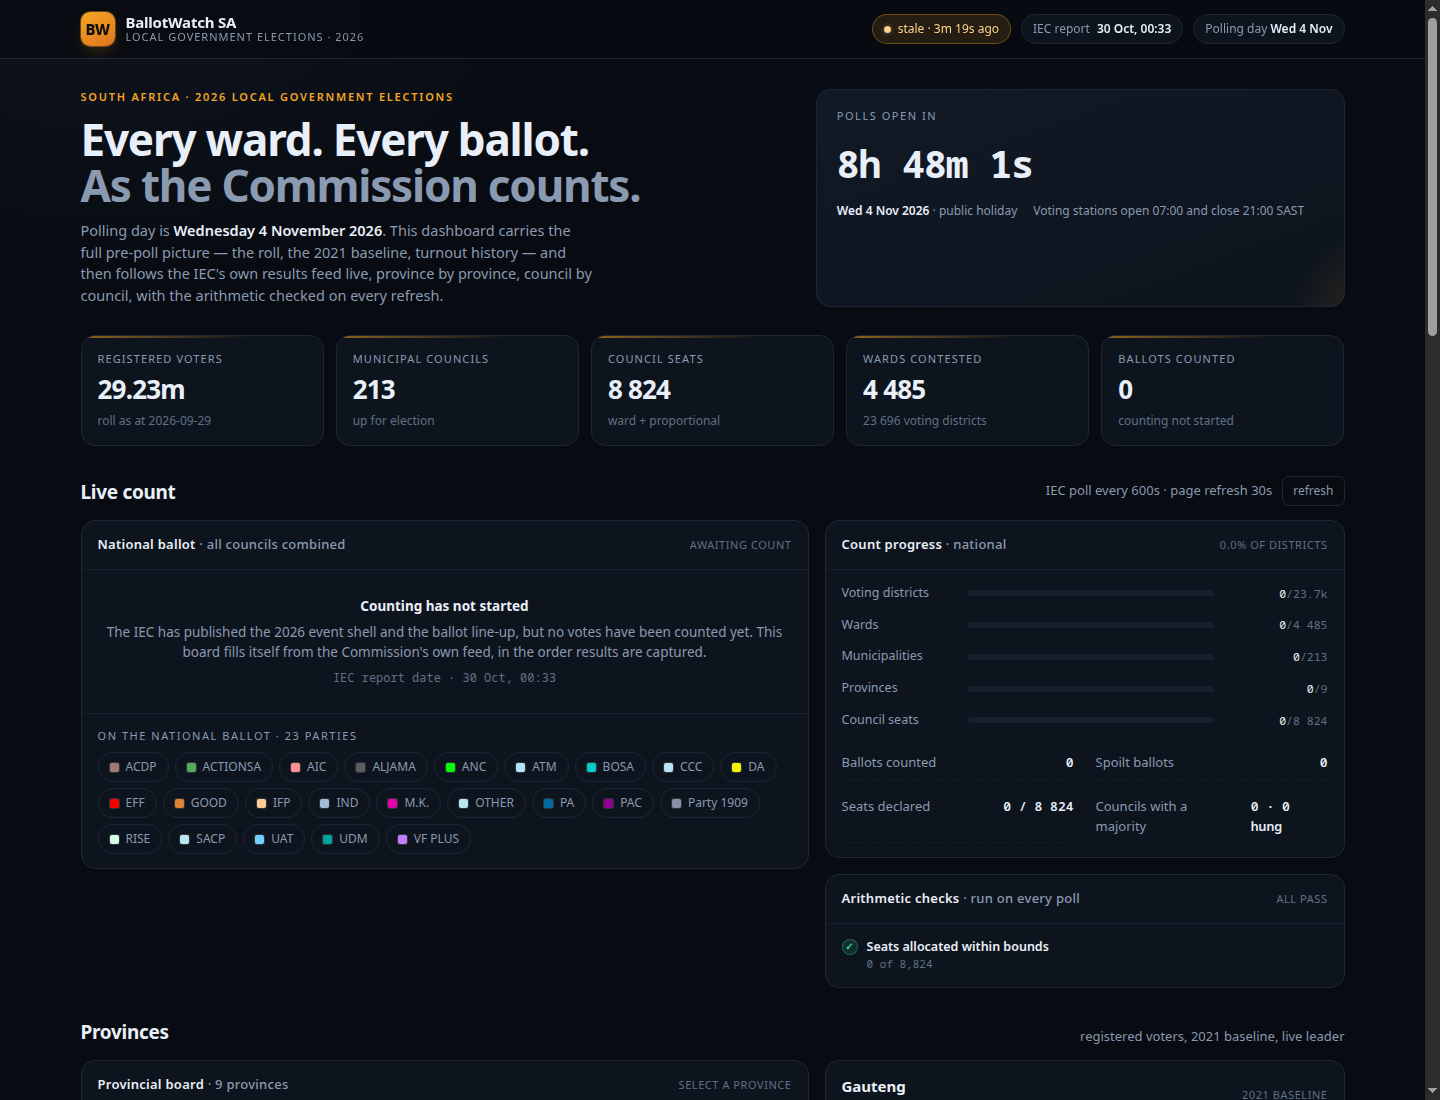
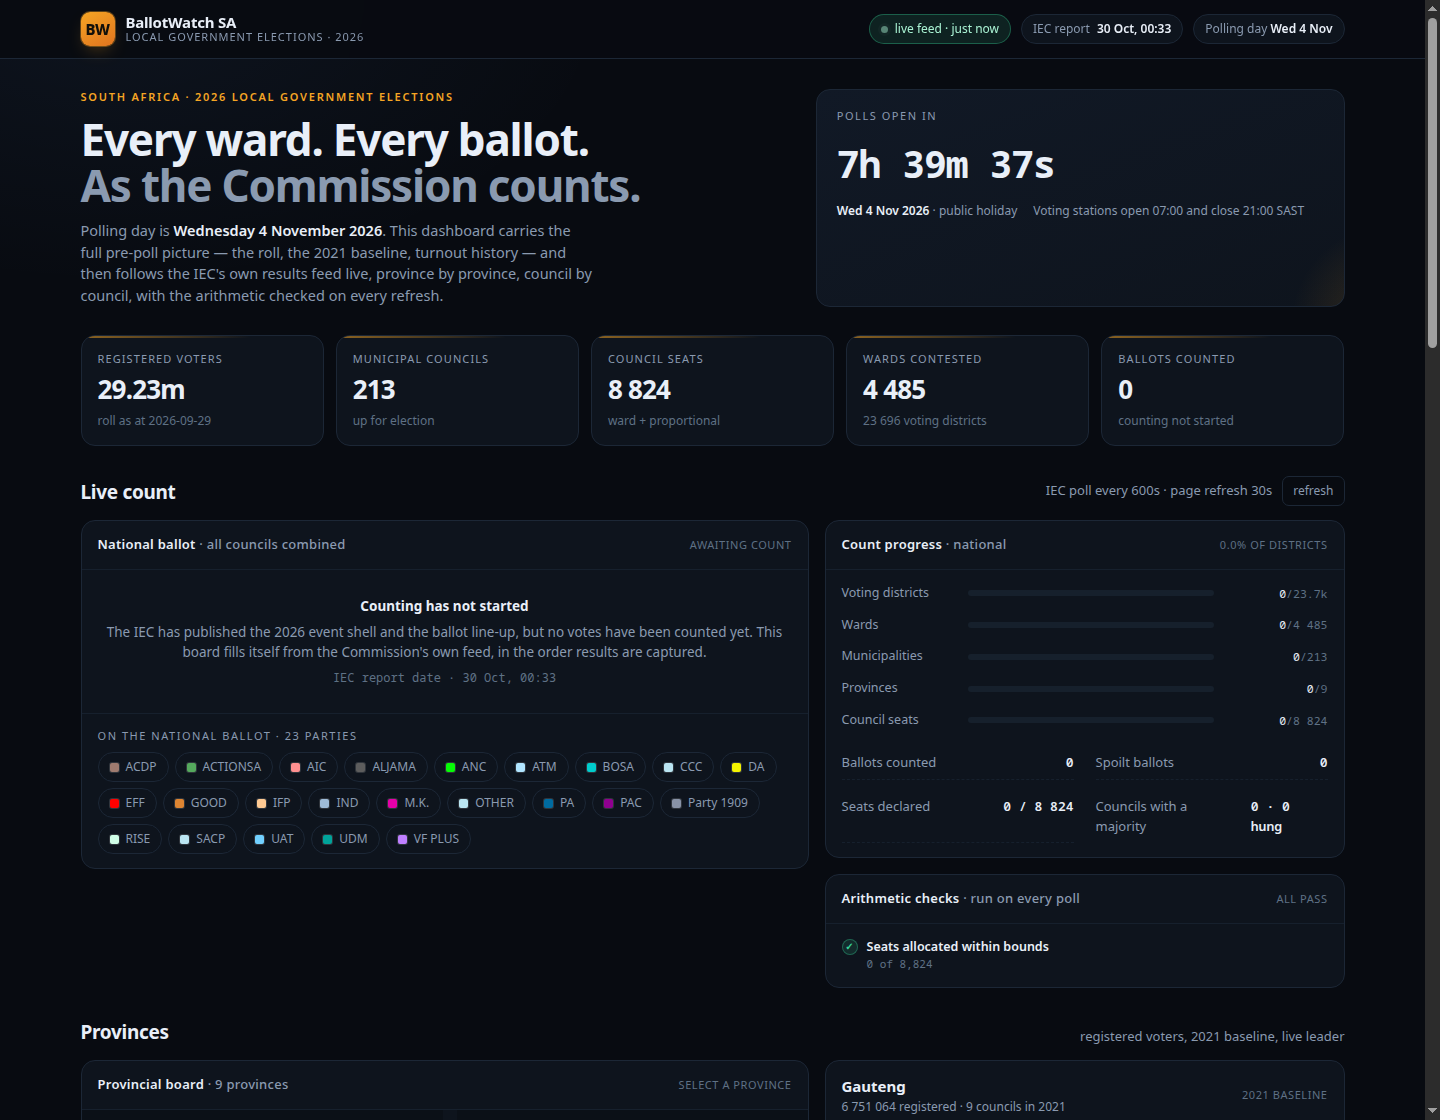
Fix party-label truncation and clarify provincial seat attribution
The IEC's provincial bundle lists seat winners rather than every seat, so the
Gauteng board showed 836/1,055 beside '100% counted'. It now separates seats
won by listed parties from total council seats, and shows hung councils.
Widened the party column so ACTIONSA no longer clips.

diff --git a/frontend/src/components/ProvincePanel.tsx b/frontend/src/components/ProvincePanel.tsx
@@ -167,17 +167,25 @@ function ProvinceDetail({ row, meta }: { row?: Row; meta: Record<number, PartyMe
             </div>
             <PartyBars parties={liveParties.map((p) => ({ abbr: p.abbr, colour: p.colour, pct: p.pct, votes: p.votes, seats: p.seats }))} />
             <div className="stat-grid" style={{ marginTop: 16 }}>
+              {/* The IEC's provincial bundle lists seat winners, not every seat;
+                  show what is attributed rather than implying a shortfall. */}
               <div className="stat">
-                <span>Seats declared</span>
-                <b>
-                  {num(row.live?.seats_allocated)} / {num(row.live?.seats_total)}
-                </b>
+                <span>Seats won by listed parties</span>
+                <b>{num(row.live?.seats_allocated)}</b>
+              </div>
+              <div className="stat">
+                <span>Council seats in province</span>
+                <b>{num(row.live?.seats_total)}</b>
               </div>
               <div className="stat">
                 <span>Councils complete</span>
                 <b>
                   {num(row.live?.councils.complete)} / {num(row.live?.councils.expected)}
                 </b>
+              </div>
+              <div className="stat">
+                <span>Councils without a majority</span>
+                <b>{num(row.live?.councils.hung)}</b>
               </div>
             </div>
           </>

diff --git a/frontend/src/styles.css b/frontend/src/styles.css
@@ -158,7 +158,7 @@ section { margin-top: 30px; }
 .board { display: flex; flex-direction: column; }
 .board-row {
   display: grid;
-  grid-template-columns: 26px 78px minmax(110px, 1fr) 96px 88px 72px;
+  grid-template-columns: 26px 88px minmax(110px, 1fr) 96px 88px 72px;
   align-items: center; gap: 10px;
   padding: 9px 16px;
   border-bottom: 1px solid var(--line-soft);
@@ -172,7 +172,7 @@ section { margin-top: 30px; }
   background: var(--bg-2);
 }
 .rank { font-size: 12px; color: var(--dim); font-family: var(--mono); }
-.chip { display: flex; align-items: center; gap: 7px; font-weight: 650; font-size: 13px; white-space: nowrap; overflow: hidden; text-overflow: ellipsis; }
+.chip { display: flex; align-items: center; gap: 6px; font-weight: 650; font-size: 12.5px; white-space: nowrap; overflow: hidden; text-overflow: ellipsis; }
 .swatch { width: 9px; height: 9px; border-radius: 2px; flex: none; box-shadow: 0 0 0 1px rgba(255,255,255,.14); }
 .bar-track { height: 7px; border-radius: 4px; background: #18222f; overflow: hidden; }
 .bar-fill { height: 100%; border-radius: 4px; transition: width .5s cubic-bezier(.2,.8,.2,1); }
